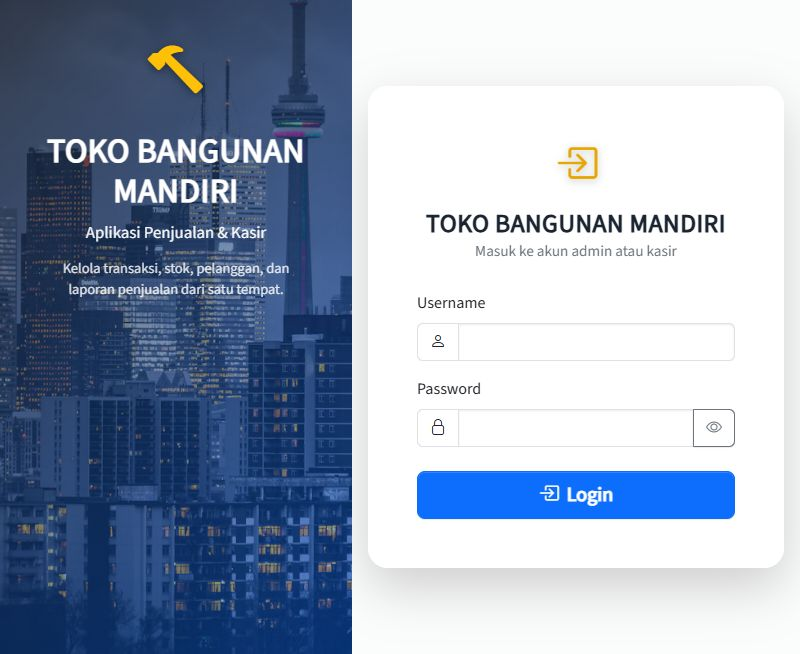
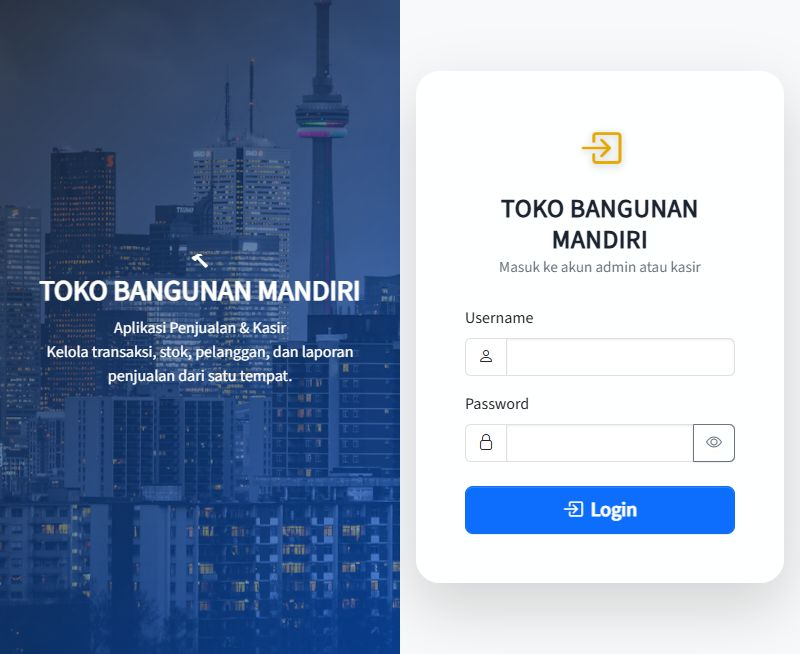
UI: login split-screen rata kiri-kanan + glassmorphism + hapus akun demo

diff --git a/login.html b/login.html
@@ -22,7 +22,8 @@
   /* Panel kiri: gambar */
   .login-image {
     position: relative;
-    flex: 0 0 44%;
+    flex: 0 0 50%;
+    height: 100vh;
     min-height: 100vh;
     display: none; /* sembunyi di HP, tampil di desktop */
   }
@@ -40,81 +41,47 @@
   .login-image .overlay {
     position: absolute;
     inset: 0;
-    background: linear-gradient(135deg, rgba(27,36,49,.72) 0%, rgba(13,110,253,.45) 100%);
+    background: linear-gradient(135deg, rgba(27,36,49,.78) 0%, rgba(13,110,253,.55) 100%);
   }
   .login-image .brand-content {
     position: relative;
     z-index: 2;
     text-align: center;
     color: #fff;
-    padding: 2rem;
+    padding: 3rem 2rem;
     width: 100%;
-  }
-  .login-image .brand-content i {
-    font-size: 3.5rem;
-    color: #ffc107;
-    margin-bottom: 1rem;
-    display: block;
-    filter: drop-shadow(0 2px 4px rgba(0,0,0,.4));
-  }
-  .login-image .brand-content h2 {
-    font-weight: 800;
-    letter-spacing: .5px;
-    font-size: 2.1rem;
-    margin: 0 0 .5rem;
-  }
-  .login-image .brand-content p {
-    margin: 0;
-    opacity: .95;
-    font-size: 1.05rem;
-  }
-  .login-image .brand-content .tagline {
-    margin-top: .75rem;
-    font-size: .9rem;
-    opacity: .85;
-    max-width: 260px;
-    margin-left: auto;
-    margin-right: auto;
-    line-height: 1.5;
+    display: flex;
+    flex-direction: column;
+    justify-content: center;
+    align-items: center;
   }
 
   /* Panel kanan: form login */
   .login-form-panel {
-    flex: 1 1 56%;
+    flex: 1 1 50%;
+    height: 100vh;
+    min-height: 100vh;
     display: flex;
     align-items: center;
     justify-content: center;
-    min-height: 100vh;
     padding: 2rem 1rem;
+    background: #f8f9fa;
   }
 
   .login-card {
     width: 100%;
-    max-width: 420px;
+    max-width: 400px;
     border: none;
-    border-radius: 1.25rem;
-    box-shadow: 0 20px 50px rgba(0,0,0,.18);
+    border-radius: 1.5rem;
+    box-shadow: 0 24px 60px rgba(0,0,0,.16);
     /* Efek Glassmorphism */
-    background: rgba(255,255,255,.82);
-    backdrop-filter: blur(20px) saturate(1.2);
-    -webkit-backdrop-filter: blur(20px) saturate(1.2);
-    border: 1px solid rgba(255,255,255,.65);
+    background: rgba(255,255,255,.92);
+    backdrop-filter: blur(24px) saturate(1.2);
+    -webkit-backdrop-filter: blur(24px) saturate(1.2);
+    border: 1px solid rgba(255,255,255,.7);
   }
   .login-card .card-body {
-    padding: 2rem 1.75rem;
-  }
-
-  /* Panel kanan juga dapat sentuhan kaca lembut */
-  .login-form-panel {
-    flex: 1 1 56%;
-    display: flex;
-    align-items: center;
-    justify-content: center;
-    min-height: 100vh;
-    padding: 2rem 1rem;
-    background: rgba(255,255,255,.45);
-    backdrop-filter: blur(10px);
-    -webkit-backdrop-filter: blur(10px);
+    padding: 2.5rem 2rem;
   }
   .login-card .login-header {
     text-align: center;
@@ -148,20 +115,20 @@
     margin-top: 1.5rem;
   }
 
-  /* Responsive: HP -> susun vertikal (gambar di atas, form di bawah) */
+  /* Responsif: HP -> susun vertikal */
   @media (max-width: 767.98px) {
     .login-wrap { flex-direction: column; }
     .login-image {
       display: block;
       flex: 0 0 auto;
-      min-height: auto;
-      height: 30vh;
-      min-height: 220px;
+      height: 32vh;
+      min-height: 240px;
     }
-    .login-image .brand-content { padding: 1rem; }
+    .login-image .brand-content { padding: 1.5rem 1rem; }
     .login-image .brand-content h2 { font-size: 1.5rem; }
     .login-image .brand-content i { font-size: 2.2rem; }
     .login-form-panel { flex: 1; padding: 1.5rem 1rem; }
+    .login-card { max-width: 100%; border-radius: 1rem; }
   }
 </style>
 </head>
